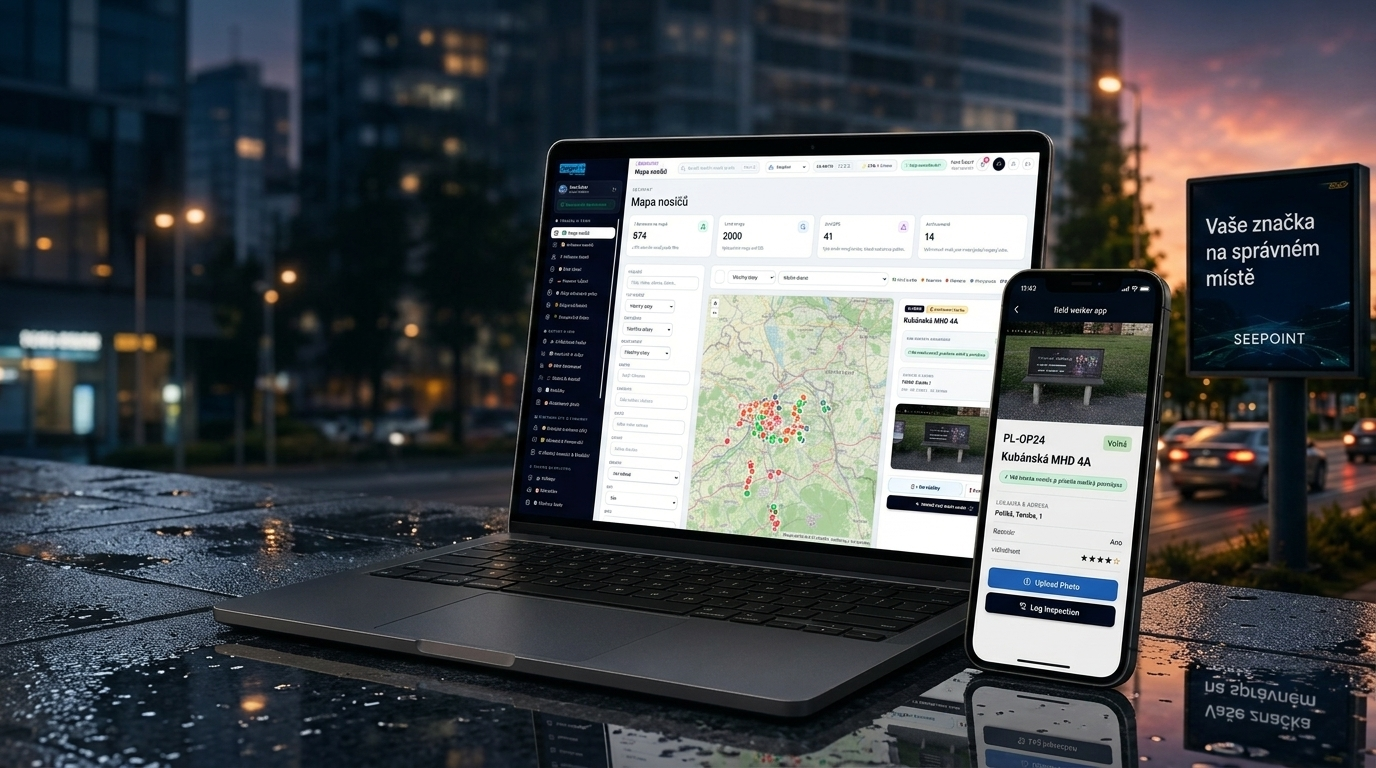
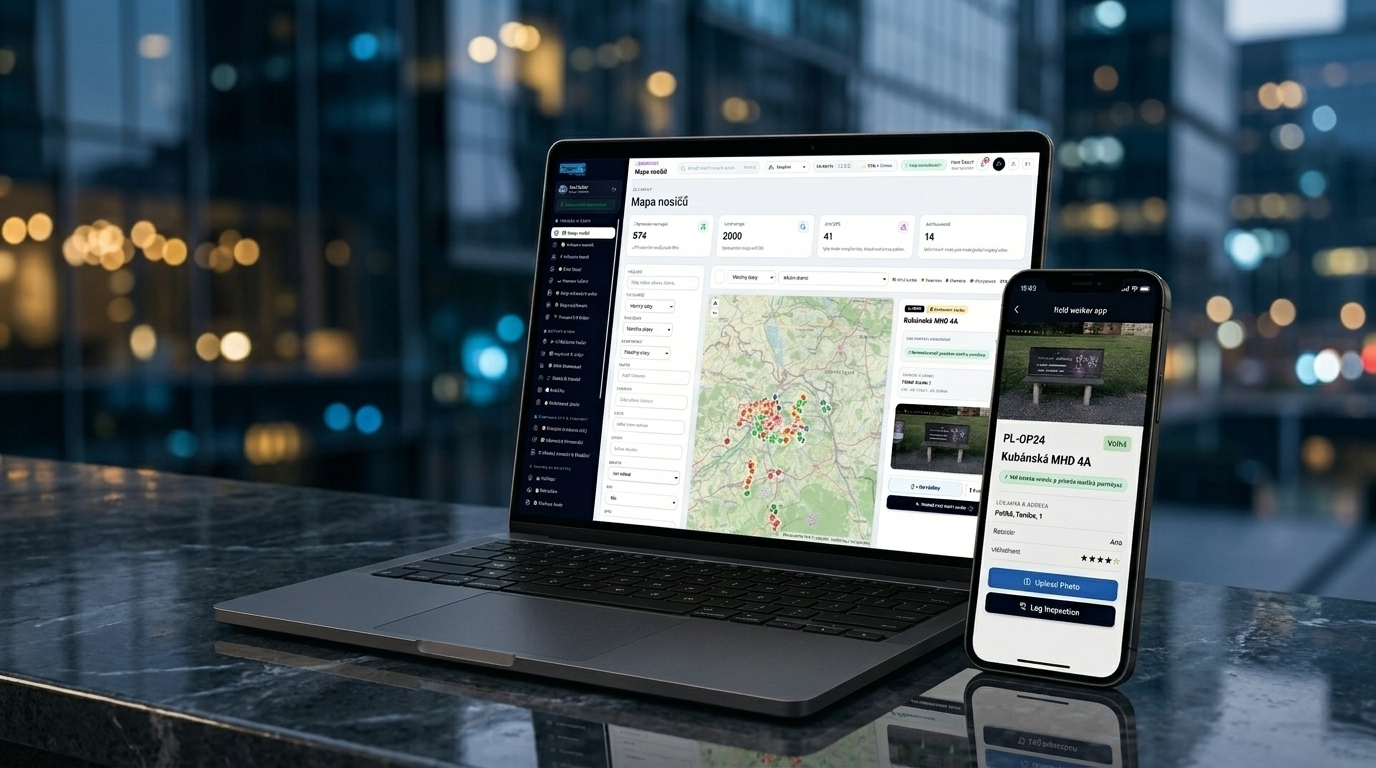
feat(marketing): remove background billboard from 3D mockup and add elegant benefit pills to Hero section

diff --git a/components/marketing/SaaSHero.tsx b/components/marketing/SaaSHero.tsx
@@ -1,7 +1,7 @@
 'use client';
 
 import Image from 'next/image';
-import { Sparkles, ArrowRight, ShieldCheck, CheckCircle2, Play, Layers, MapPin, Building2, TrendingUp, Smartphone, Laptop } from 'lucide-react';
+import { Sparkles, ArrowRight, ShieldCheck, CheckCircle2, Play, Layers, MapPin, Building2, TrendingUp, Smartphone, Laptop, Clock, BarChart3 } from 'lucide-react';
 import { trackSaaSEvent } from '@/lib/analytics';
 
 export function SaaSHero({ onOpenDemoModal }: { onOpenDemoModal: () => void }) {
@@ -26,14 +26,14 @@ export function SaaSHero({ onOpenDemoModal }: { onOpenDemoModal: () => void }) {
         {/* H1 Title */}
         <div className="space-y-4 max-w-4xl mx-auto">
           <h1 className="text-4xl sm:text-6xl lg:text-7xl font-black tracking-tight text-white leading-[1.08]">
-            Operační systém pro <br />
+            Mějte své reklamní plochy <br />
             <span className="bg-gradient-to-r from-purple-400 via-indigo-300 to-sky-400 bg-clip-text text-transparent">
-              venkovní reklamu.
+              plně pod kontrolou.
             </span>
           </h1>
 
           <p className="text-lg sm:text-2xl font-bold text-slate-200 leading-snug max-w-3xl mx-auto">
-            Reklamní plochy, klienti, nabídky, kampaně, realizace, fotodokumentace a AI v jednom systému.
+            Chytrý systém pro správu venkovní reklamy, který šetří čas, zvyšuje obsazenost a přináší přehled o celém vašem portfoliu.
           </p>
 
           <p className="text-sm sm:text-base text-slate-400 font-medium max-w-2xl mx-auto leading-relaxed">
@@ -70,10 +70,20 @@ export function SaaSHero({ onOpenDemoModal }: { onOpenDemoModal: () => void }) {
           </a>
         </div>
 
-        {/* Trust Badge */}
-        <div className="pt-2 flex items-center justify-center gap-2 text-xs font-semibold text-slate-400">
-          <ShieldCheck className="w-4 h-4 text-emerald-400" />
-          <span>Vytvořeno na základě skutečného provozu outdoorové reklamní společnosti.</span>
+        {/* 3 Micro-Benefits Strip (matching reference) */}
+        <div className="pt-2 flex flex-wrap items-center justify-center gap-4 text-xs font-bold text-slate-300">
+          <div className="flex items-center gap-2 px-3.5 py-2 rounded-xl bg-slate-900/70 border border-slate-800 backdrop-blur-sm">
+            <MapPin className="w-4 h-4 text-purple-400" />
+            <span>Přehledná mapa všech nosičů</span>
+          </div>
+          <div className="flex items-center gap-2 px-3.5 py-2 rounded-xl bg-slate-900/70 border border-slate-800 backdrop-blur-sm">
+            <BarChart3 className="w-4 h-4 text-emerald-400" />
+            <span>Vytíží obsazenost až o 15 %</span>
+          </div>
+          <div className="flex items-center gap-2 px-3.5 py-2 rounded-xl bg-slate-900/70 border border-slate-800 backdrop-blur-sm">
+            <Clock className="w-4 h-4 text-sky-400" />
+            <span>Úspora času a méně chyb</span>
+          </div>
         </div>
 
         {/* Photorealistic 3D Product Mockup Visual */}
